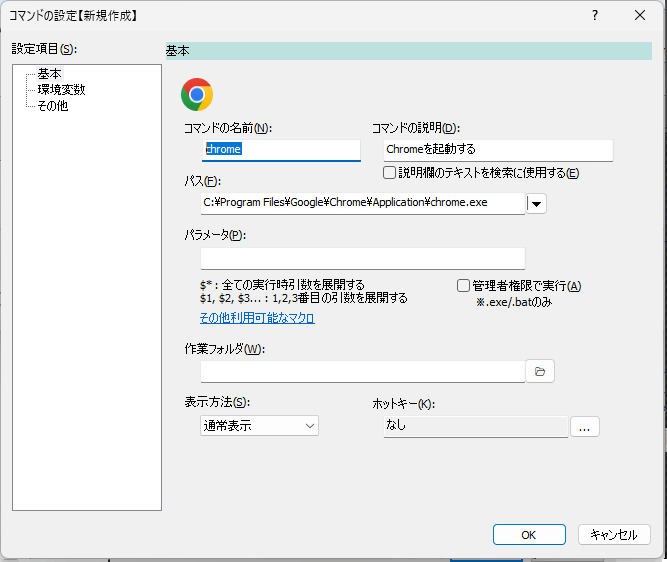
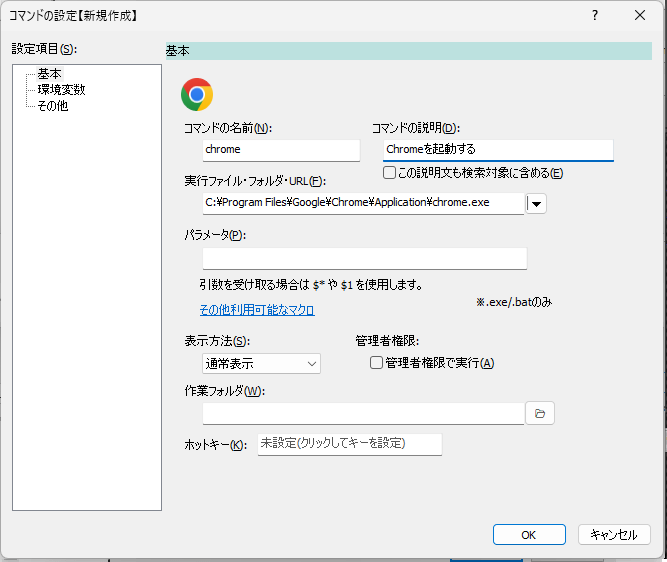
feat : #246 URLからファビコンを取得しコマンドのアイコンとして設定する機能

diff --git a/src/soyokaze/utility/WinHttp.cpp b/src/soyokaze/utility/WinHttp.cpp
@@ -33,6 +33,7 @@ public:
 struct WinHttp::PImpl
 {
 	bool IsContentHTML(const std::vector<WCHAR>& content);
+	bool LoadContent(const CString& url, std::vector<BYTE>& content, bool& isHTML, bool requireHTML);
 
 	DWORD GetProxyAccessType() {
 		if (mProxyType == DIRECTPROXY) { return WINHTTP_ACCESS_TYPE_NAMED_PROXY; }
@@ -123,11 +124,11 @@ static DWORD ChooseAuthScheme(DWORD supportedSchemes)
 	}
 }
 
-bool WinHttp::LoadContent(const CString& url, std::vector<BYTE>& content, bool& isHTML)
+bool WinHttp::PImpl::LoadContent(const CString& url, std::vector<BYTE>& content, bool& isHTML, bool requireHTML)
 {
 	spdlog::stopwatch sw;
 
- 	WinHttpHandle session(WinHttpOpen(L"WinHttpOpen/1.0", in->GetProxyAccessType(), in->GetProxyName(), WINHTTP_NO_PROXY_BYPASS, 0));
+	WinHttpHandle session(WinHttpOpen(L"WinHttpOpen/1.0", GetProxyAccessType(), GetProxyName(), WINHTTP_NO_PROXY_BYPASS, 0));
 
 	WCHAR hostName[1024];
 	std::vector<WCHAR> urlPath(65536);
@@ -156,7 +157,7 @@ bool WinHttp::LoadContent(const CString& url, std::vector<BYTE>& content, bool& 
 
 	spdlog::debug("connect {:.6f} s.", sw);
 
-	WinHttpHandle req(WinHttpOpenRequest(connect, in->mMethod, urlPath.data(), nullptr, WINHTTP_NO_REFERER, 
+	WinHttpHandle req(WinHttpOpenRequest(connect, mMethod, urlPath.data(), nullptr, WINHTTP_NO_REFERER,
 				WINHTTP_DEFAULT_ACCEPT_TYPES, (INTERNET_SCHEME_HTTPS == cmp.nScheme) ? WINHTTP_FLAG_SECURE : 0));
 
 	spdlog::debug("openrequest {:.6f} s.", sw);
@@ -164,7 +165,7 @@ bool WinHttp::LoadContent(const CString& url, std::vector<BYTE>& content, bool& 
 	DWORD proxyScheme = 0;
 
 	
-	bool isRetryProxyAuth = (in->mProxyType == DIRECTPROXY);
+	bool isRetryProxyAuth = (mProxyType == DIRECTPROXY);
 		// 指摘したプロキシを使う設定の場合だけ、407が返ったら認証情報をセットしてリトライを試みる
 
 	bool hasRetriedHttpAuth = false;
@@ -179,7 +180,7 @@ bool WinHttp::LoadContent(const CString& url, std::vector<BYTE>& content, bool& 
 
 		// プロキシ認証情報はリトライが複数回行われる可能性があるため、ここでセットする
 		if (proxyScheme != 0) {
-			isOK = WinHttpSetCredentials(req, WINHTTP_AUTH_TARGET_PROXY, proxyScheme, in->mProxyUser, in->mProxyPassword, nullptr);
+			isOK = WinHttpSetCredentials(req, WINHTTP_AUTH_TARGET_PROXY, proxyScheme, mProxyUser, mProxyPassword, nullptr);
 		}
 
 		// リクエストを出す
@@ -231,7 +232,7 @@ bool WinHttp::LoadContent(const CString& url, std::vector<BYTE>& content, bool& 
 				return false;
 			}
 			// 認証情報を設定
-			isOK = WinHttpSetCredentials(req, target, selectedScheme, in->mServerUser, in->mServerPassword, nullptr);
+			isOK = WinHttpSetCredentials(req, target, selectedScheme, mServerUser, mServerPassword, nullptr);
 
 			hasRetriedHttpAuth = true;
 			continue;
@@ -281,12 +282,16 @@ bool WinHttp::LoadContent(const CString& url, std::vector<BYTE>& content, bool& 
 	}
 
 	// ヘッダをパースしてコンテンツ種別を得る
-	if (in->IsContentHTML(hdrData) == false) {
+	if (IsContentHTML(hdrData) == false) {
 		// HTMLでなければこのツールでは取り扱わないのでコンテンツを取得せずに抜ける
 		isHTML = false;
-		return false;
+		if (requireHTML) {
+			return false;
+		}
 	}
-	isHTML = true;
+	else {
+		isHTML = true;
+	}
 
 	spdlog::debug("queryheaders {:.6f} s.", sw);
 
@@ -318,6 +323,17 @@ bool WinHttp::LoadContent(const CString& url, std::vector<BYTE>& content, bool& 
 	spdlog::debug("download {:.6f} s.", sw);
 
 	return true;
+}
+
+bool WinHttp::LoadContent(const CString& url, std::vector<BYTE>& content, bool& isHTML)
+{
+	return in->LoadContent(url, content, isHTML, true);
+}
+
+bool WinHttp::LoadBinaryContent(const CString& url, std::vector<BYTE>& content)
+{
+	bool isHTML = false;
+	return in->LoadContent(url, content, isHTML, false);
 }
 
 void WinHttp::SetProxyType(int type)

diff --git a/src/soyokaze/icon/IconLabel.cpp b/src/soyokaze/icon/IconLabel.cpp
@@ -3,6 +3,7 @@
 #include "IconLabel.h"
 #include "icon/IconLoader.h"
 #include "utility/Path.h"
+#include "utility/FaviconLoader.h"
 #include "resource.h"
 #include <map>
 #include <gdiplus.h>
@@ -22,7 +23,10 @@ struct IconLabel::PImpl
 	CImageList mIconList;
 	CSize mCtrlSize;
 
+	CString mFaviconURL;
+
 	bool mCanIconChange{false};
+	bool mCanFaviconDownload{false};
 	bool mIsUseBackgroundColor{false};
 	COLORREF mBackgroundColor{RGB(0,0,0)};
 };
@@ -45,6 +49,18 @@ END_MESSAGE_MAP()
 void IconLabel::EnableIconChange()
 {
 	in->mCanIconChange = true;
+}
+
+void IconLabel::EnableFaviconDownload(const CString& url)
+{
+	in->mCanFaviconDownload = true;
+	in->mFaviconURL = url;
+}
+
+void IconLabel::DisableFaviconDownload()
+{
+	in->mCanFaviconDownload = false;
+	in->mFaviconURL.Empty();
 }
 
 void IconLabel::DrawIcon(HICON iconHandle)
@@ -127,6 +143,7 @@ void IconLabel::SetBackgroundColor(bool isUseSystemSetting, COLORREF cr)
 
 void IconLabel::OnEnable(BOOL isEnable)
 {
+	UNREFERENCED_PARAMETER(isEnable);
 	InvalidateRect(nullptr);
 }
 
@@ -185,8 +202,56 @@ void IconLabel::OnMenuChangeIcon()
 		return ;
 	}
 
-	// 親ウインドウに変更後のアイコントとする画像ファイルパスを通知する
+	// 親ウインドウに変更後のアイコンとする画像ファイルパスを通知する
 	GetParent()->SendMessage(WM_APP + 11, 1, (LPARAM)(LPCTSTR)dlg.GetPathName());
+
+	// IconLabelに対してアイコンを設定するのはクラス利用者側の責務
+
+}
+
+static bool GetTempFilePath(Path& userDataPath)
+{
+	userDataPath.Append(_T("tmp"));
+	if (userDataPath.IsDirectory() == FALSE) {
+		if (CreateDirectory(userDataPath, nullptr) == FALSE) {
+			return false;
+		}
+	}
+	userDataPath.Append(_T("favicon.png"));
+	return true;
+}
+
+
+void IconLabel::OnMenuFaviconDownload()
+{
+	if (in->mFaviconURL.IsEmpty()) {
+		spdlog::warn("Favicon URL is null.");
+		return ;
+	}	
+
+	std::vector<BYTE> image;
+
+	launcherapp::FaviconLoader favloder;
+	if (favloder.Load(in->mFaviconURL, image) == false) {
+		AfxMessageBox(_T("Faviconを取得できませんでした"));
+		spdlog::warn(_T("Failed to get favicon. {}"), (LPCTSTR)in->mFaviconURL);
+		return ;
+	}
+
+	Path faviconPath(Path::APPDIRPERMACHINE);
+	GetTempFilePath(faviconPath);
+
+	try {
+		CFile file(faviconPath, CFile::modeCreate | CFile::modeWrite | CFile::typeBinary);
+		file.Write(image.data(), static_cast<UINT>(image.size()));
+	}
+	catch (CFileException* e) {
+		e->Delete();
+		return;
+	}
+
+	// 親ウインドウに変更後のアイコンとする画像ファイルパスを通知する
+	GetParent()->SendMessage(WM_APP + 11, 1, (LPARAM)(LPCTSTR)faviconPath);
 
 	// IconLabelに対してアイコンを設定するのはクラス利用者側の責務
 
@@ -208,21 +273,30 @@ void IconLabel::OnContextMenu(
 {
 	UNREFERENCED_PARAMETER(pWnd);
 
-	if (in->mCanIconChange == false) {
+	if (in->mCanIconChange == false && in->mCanFaviconDownload == false) {
 		return;
 	}
 
 	const int ID_CHANGEICON = 1;
-	const int ID_DEFAULTICON = 2;
+	const int ID_FAVICONDOWNLOAD = 2;
+	const int ID_DEFAULTICON = 3;
 
 	CMenu menu;
 	menu.CreatePopupMenu();
-	menu.InsertMenu((UINT)-1, 0, ID_CHANGEICON, _T("アイコンを変更する"));
+	if (in->mCanIconChange) {
+		menu.InsertMenu((UINT)-1, 0, ID_CHANGEICON, _T("アイコンを変更する"));
+	}
+	if (in->mCanFaviconDownload) {
+		menu.InsertMenu((UINT)-1, 0, ID_FAVICONDOWNLOAD, _T("URLからファビコンを取得する"));
+	}
 	menu.InsertMenu((UINT)-1, 0, ID_DEFAULTICON, _T("アイコンを初期状態に戻す"));
 
 	int n = menu.TrackPopupMenu(TPM_RETURNCMD, point.x, point.y, this);
 	if (n == ID_CHANGEICON) {
 		OnMenuChangeIcon();
+	}
+	else if (n == ID_FAVICONDOWNLOAD) {
+		OnMenuFaviconDownload();
 	}
 	else if (n == ID_DEFAULTICON) {
 		OnMenuDefaultIcon();

diff --git a/src/soyokaze/commands/regexp/RegExpCommandEditDialog.cpp b/src/soyokaze/commands/regexp/RegExpCommandEditDialog.cpp
@@ -171,6 +171,13 @@ bool CommandEditDialog::UpdateStatus()
 	BOOL isShortcut = CString(_T(".lnk")).CompareNoCase(PathFindExtension(param.mNormalAttr.mPath)) == 0;
 	GetDlgItem(IDC_BUTTON_RESOLVESHORTCUT)->ShowWindow(isShortcut? SW_SHOW : SW_HIDE);
 
+	if (PathIsURL(param.mNormalAttr.mPath)) {
+		in->mIconLabelPtr->EnableFaviconDownload(param.mNormalAttr.mPath);
+	}
+	else {
+		in->mIconLabelPtr->DisableFaviconDownload();
+	}
+
 	if (param.mIconData.empty()) {
 		CString resolvedPath(param.mNormalAttr.mPath);
 		ExpandMacros(resolvedPath);

diff --git a/src/soyokaze/commands/shellexecute/CommandEditDialog.cpp b/src/soyokaze/commands/shellexecute/CommandEditDialog.cpp
@@ -165,6 +165,14 @@ bool CommandEditDialog::UpdateStatus()
 
 	BOOL isShortcut = CString(_T(".lnk")).CompareNoCase(PathFindExtension(targetPath)) == 0;
 
+	// 
+	if (PathIsURL(targetPath)) {
+		in->mIconLabelPtr->EnableFaviconDownload(targetPath);
+	}
+	else {
+		in->mIconLabelPtr->DisableFaviconDownload();
+	}
+
 	// $1,2,3... または $*の指定がある場合は、引数必須を選択するチェックを表示
 
 	// パスが有効なファイルだったら編集メニューを表示する

diff --git a/src/soyokaze/icon/IconLabel.h b/src/soyokaze/icon/IconLabel.h
@@ -9,6 +9,8 @@ public:
 	virtual ~IconLabel();
 
 	void EnableIconChange();
+	void EnableFaviconDownload(const CString& url);
+	void DisableFaviconDownload();
 
 	void DrawIcon(HICON iconHandle);
 	void DrawDefaultIcon();
@@ -29,6 +31,7 @@ protected:
 	afx_msg void OnPaint();
 	afx_msg void OnContextMenu(CWnd* pWnd, CPoint pos);
 	afx_msg void OnMenuChangeIcon();
+	afx_msg void OnMenuFaviconDownload();
 	afx_msg void OnMenuDefaultIcon();
 };
 

diff --git a/src/soyokaze/utility/WinHttp.h b/src/soyokaze/utility/WinHttp.h
@@ -12,6 +12,7 @@ public:
 	~WinHttp();
 
 	bool LoadContent(const CString& url, std::vector<BYTE>& content, bool& isHTML);
+	bool LoadBinaryContent(const CString& url, std::vector<BYTE>& content);
 
 	enum {
 		SYSTEMSETTING = 0,  // システム設定を使う

diff --git a/src/soyokaze/commands/websearch/WebSearchSettingDialog.cpp b/src/soyokaze/commands/websearch/WebSearchSettingDialog.cpp
@@ -208,6 +208,10 @@ void SettingDialog::UpdateStatus()
 		in->mMessage.Empty();
 	}
 
+	if (canPressOK) {
+		in->mIconLabelPtr->EnableFaviconDownload(url);
+	}
+
 	GetDlgItem(IDOK)->EnableWindow(canPressOK ? TRUE : FALSE);
 }
 

diff --git a/doc/manuals/source/user-command/websearch.md b/doc/manuals/source/user-command/websearch.md
@@ -37,6 +37,8 @@ Google/Bing/DuckDuckGo/X/Amazon/Youtube が選択できる
 選択すると、ファイルを選択するダイアログが表示される。画像ファイルを選択すると、その画像をアイコンとして使用することができる。
     - PNG/JPG/GIF/BMP形式のファイルが利用可能
     - 検索サイトごとにアイコンを変えると視認性が高まるのでおすすめ
+  - `URLからファビコンを取得する`    
+選択すると、`検索URL`のファビコンを取得し、アイコンとして設定する。
   - `アイコンを初期状態に戻す`  
 選択すると、変更したアイコンを元に戻すことができる
 

diff --git a/doc/manuals/source/user-command/regexp.md b/doc/manuals/source/user-command/regexp.md
@@ -46,6 +46,9 @@
   - `アイコンを変更する`  
 選択すると、ファイルを選択するダイアログが表示される。画像ファイルを選択すると、その画像をアイコンとして使用することができる。  
 PNG/JPG/GIF/BMP形式のファイルが利用可能
+  - `URLからファビコンを取得する`    
+`実行ファイル・URLなど`にURLが入力されているときのみ表示される。  
+選択すると、URLからファビコンを取得し、アイコンとして設定する。
   - `アイコンを初期状態に戻す`  
 選択すると、変更したアイコンを元に戻すことができる
 

diff --git a/CHANGELOG.md b/CHANGELOG.md
@@ -2,7 +2,9 @@
 
 ## [Unreleased]
 
-なし
+### Added
+
+- #246 URLからファビコンを取得しコマンドのアイコンとして設定する機能
 
 ## 0.55.0 - 2026-08-11
 
